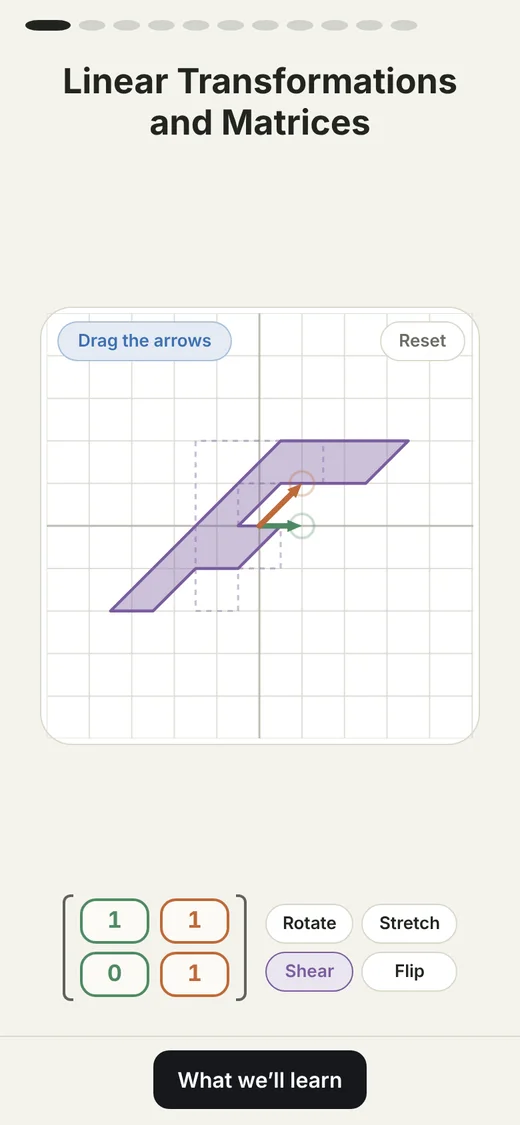
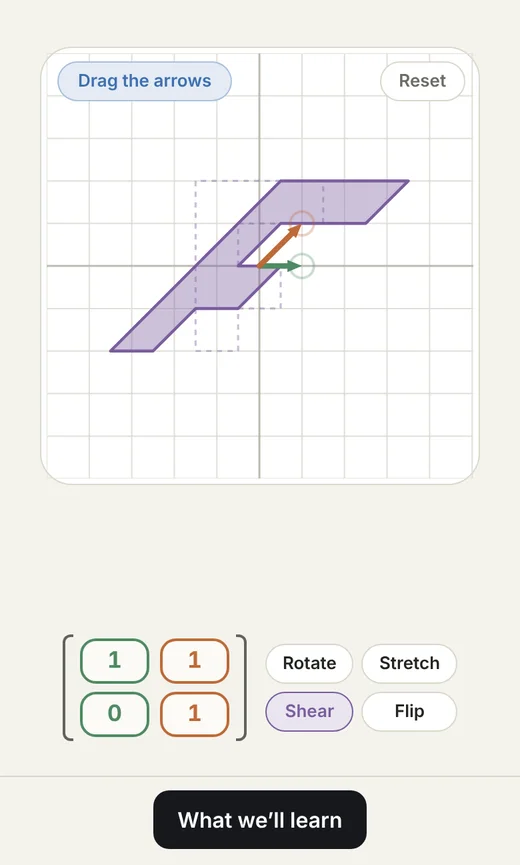
Lesson cards: title above the preview; crop title from the Linear screenshot (#28)
Claude-Session: https://claude.ai/code/session_01B6u6w9fTGNxU2tRw6eReYt

diff --git a/app/page.tsx b/app/page.tsx
@@ -10,12 +10,14 @@ const lessons = [
     preview: "/sliding-window-preview.webp",
     alt: "Sliding window lesson on a phone: the Try it yourself question, with a five-number window highlighted and four choices to pick from",
     title: "Sliding window",
+    height: 1125,
   },
   {
     href: "/basis-vectors",
     preview: "/basis-vectors-preview.webp",
     alt: "Linear transformations lesson on a phone: a sheared letter F with draggable basis arrows and a 2 by 2 matrix",
     title: "Linear transformations and matrices",
+    height: 865,
   },
 ];
 
@@ -134,14 +136,12 @@ export default function Home() {
 
       <section aria-label="Interactive lessons" className="mt-8 grid gap-8 md:grid-cols-2">
         {lessons.map((l) => (
-          <Link key={l.href} href={l.href} className="lesson-card group flex flex-col">
-            <div className="phone mx-auto w-full max-w-[300px]">
-              <Image src={l.preview} alt={l.alt} width={520} height={1126} className="h-auto w-full" />
+          <Link key={l.href} href={l.href} className="lesson-card group mx-auto flex w-full max-w-[300px] flex-col">
+            <h2 className="px-1 text-[22px] font-extrabold leading-tight tracking-tight">{l.title}</h2>
+            <div className="phone mt-3.5 w-full">
+              <Image src={l.preview} alt={l.alt} width={520} height={l.height} className="h-auto w-full" />
             </div>
-            <div className="mx-auto mt-5 flex w-full max-w-[300px] flex-col items-start gap-3 px-1">
-              <h2 className="text-xl font-extrabold tracking-tight">{l.title}</h2>
-              <span className="work-cta shrink-0 rounded-2xl px-4 py-2.5 text-sm font-bold">Open &rarr;</span>
-            </div>
+            <span className="work-cta mt-4 self-start rounded-2xl px-4 py-2.5 text-sm font-bold">Open &rarr;</span>
           </Link>
         ))}
       </section>
